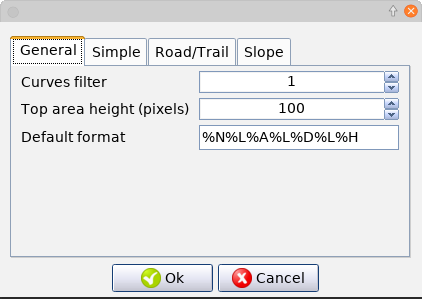
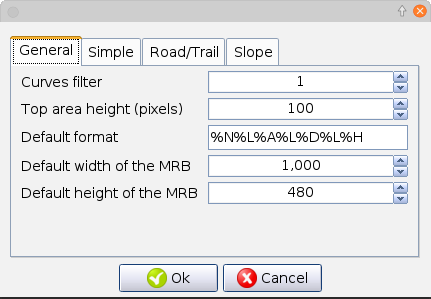
doc update

diff --git a/doc/fr/md/09-Advanced_use.md b/doc/fr/md/09-Advanced_use.md
@@ -174,7 +174,9 @@ L'onglet "Général" permet de:
 
 * Régler la valeur du filtre à appliquer sur les données lors de l'affichage du profil
 * Régler la taille de zone haute du profil. Cette taille est en pixel.
-* Régler le format du texte par défaut lorsque que vous créez une nouvelle marque
+* Régler le format du texte par défaut lorsque que vous créez une nouvelle marque.
+* Régler la largeur par défaut du MRB.
+* Régler la hauteur par défaut du MRB.
   
 L'onglet "Simple" permet de régler les couleurs de la représentation "Simple" du profil.  
 ![](./images/MRB/CG40_MRB_Settings2.png)  
